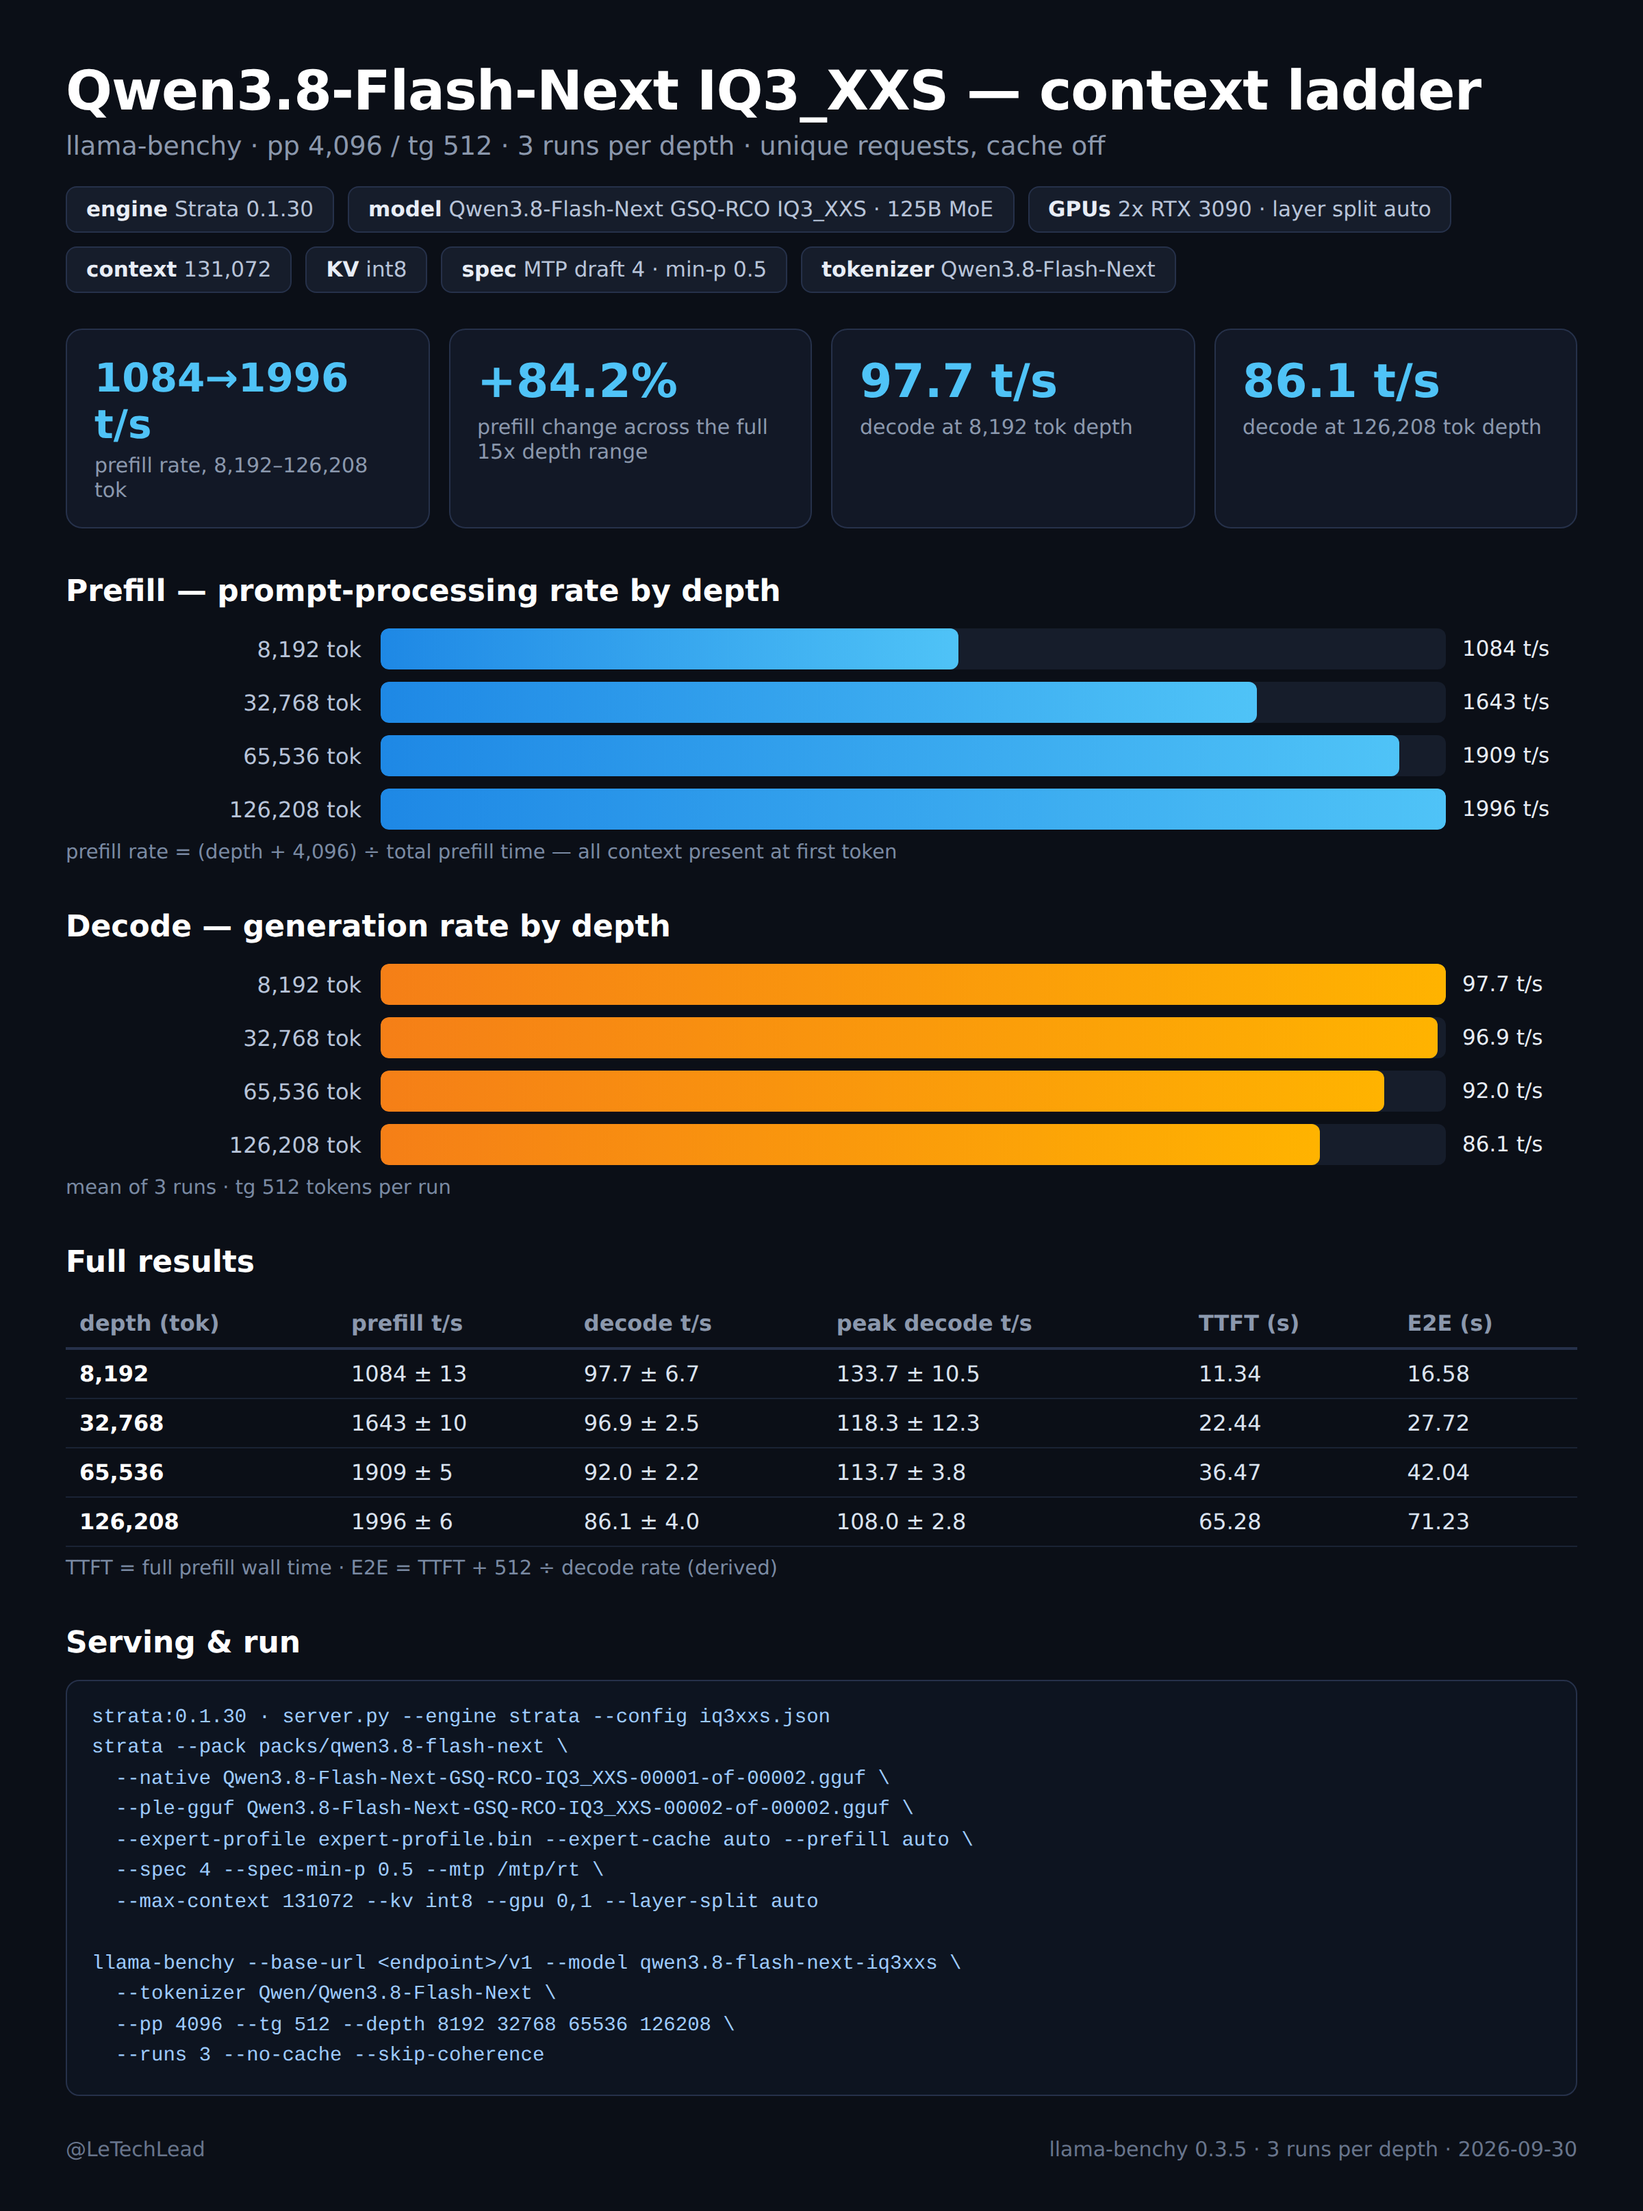
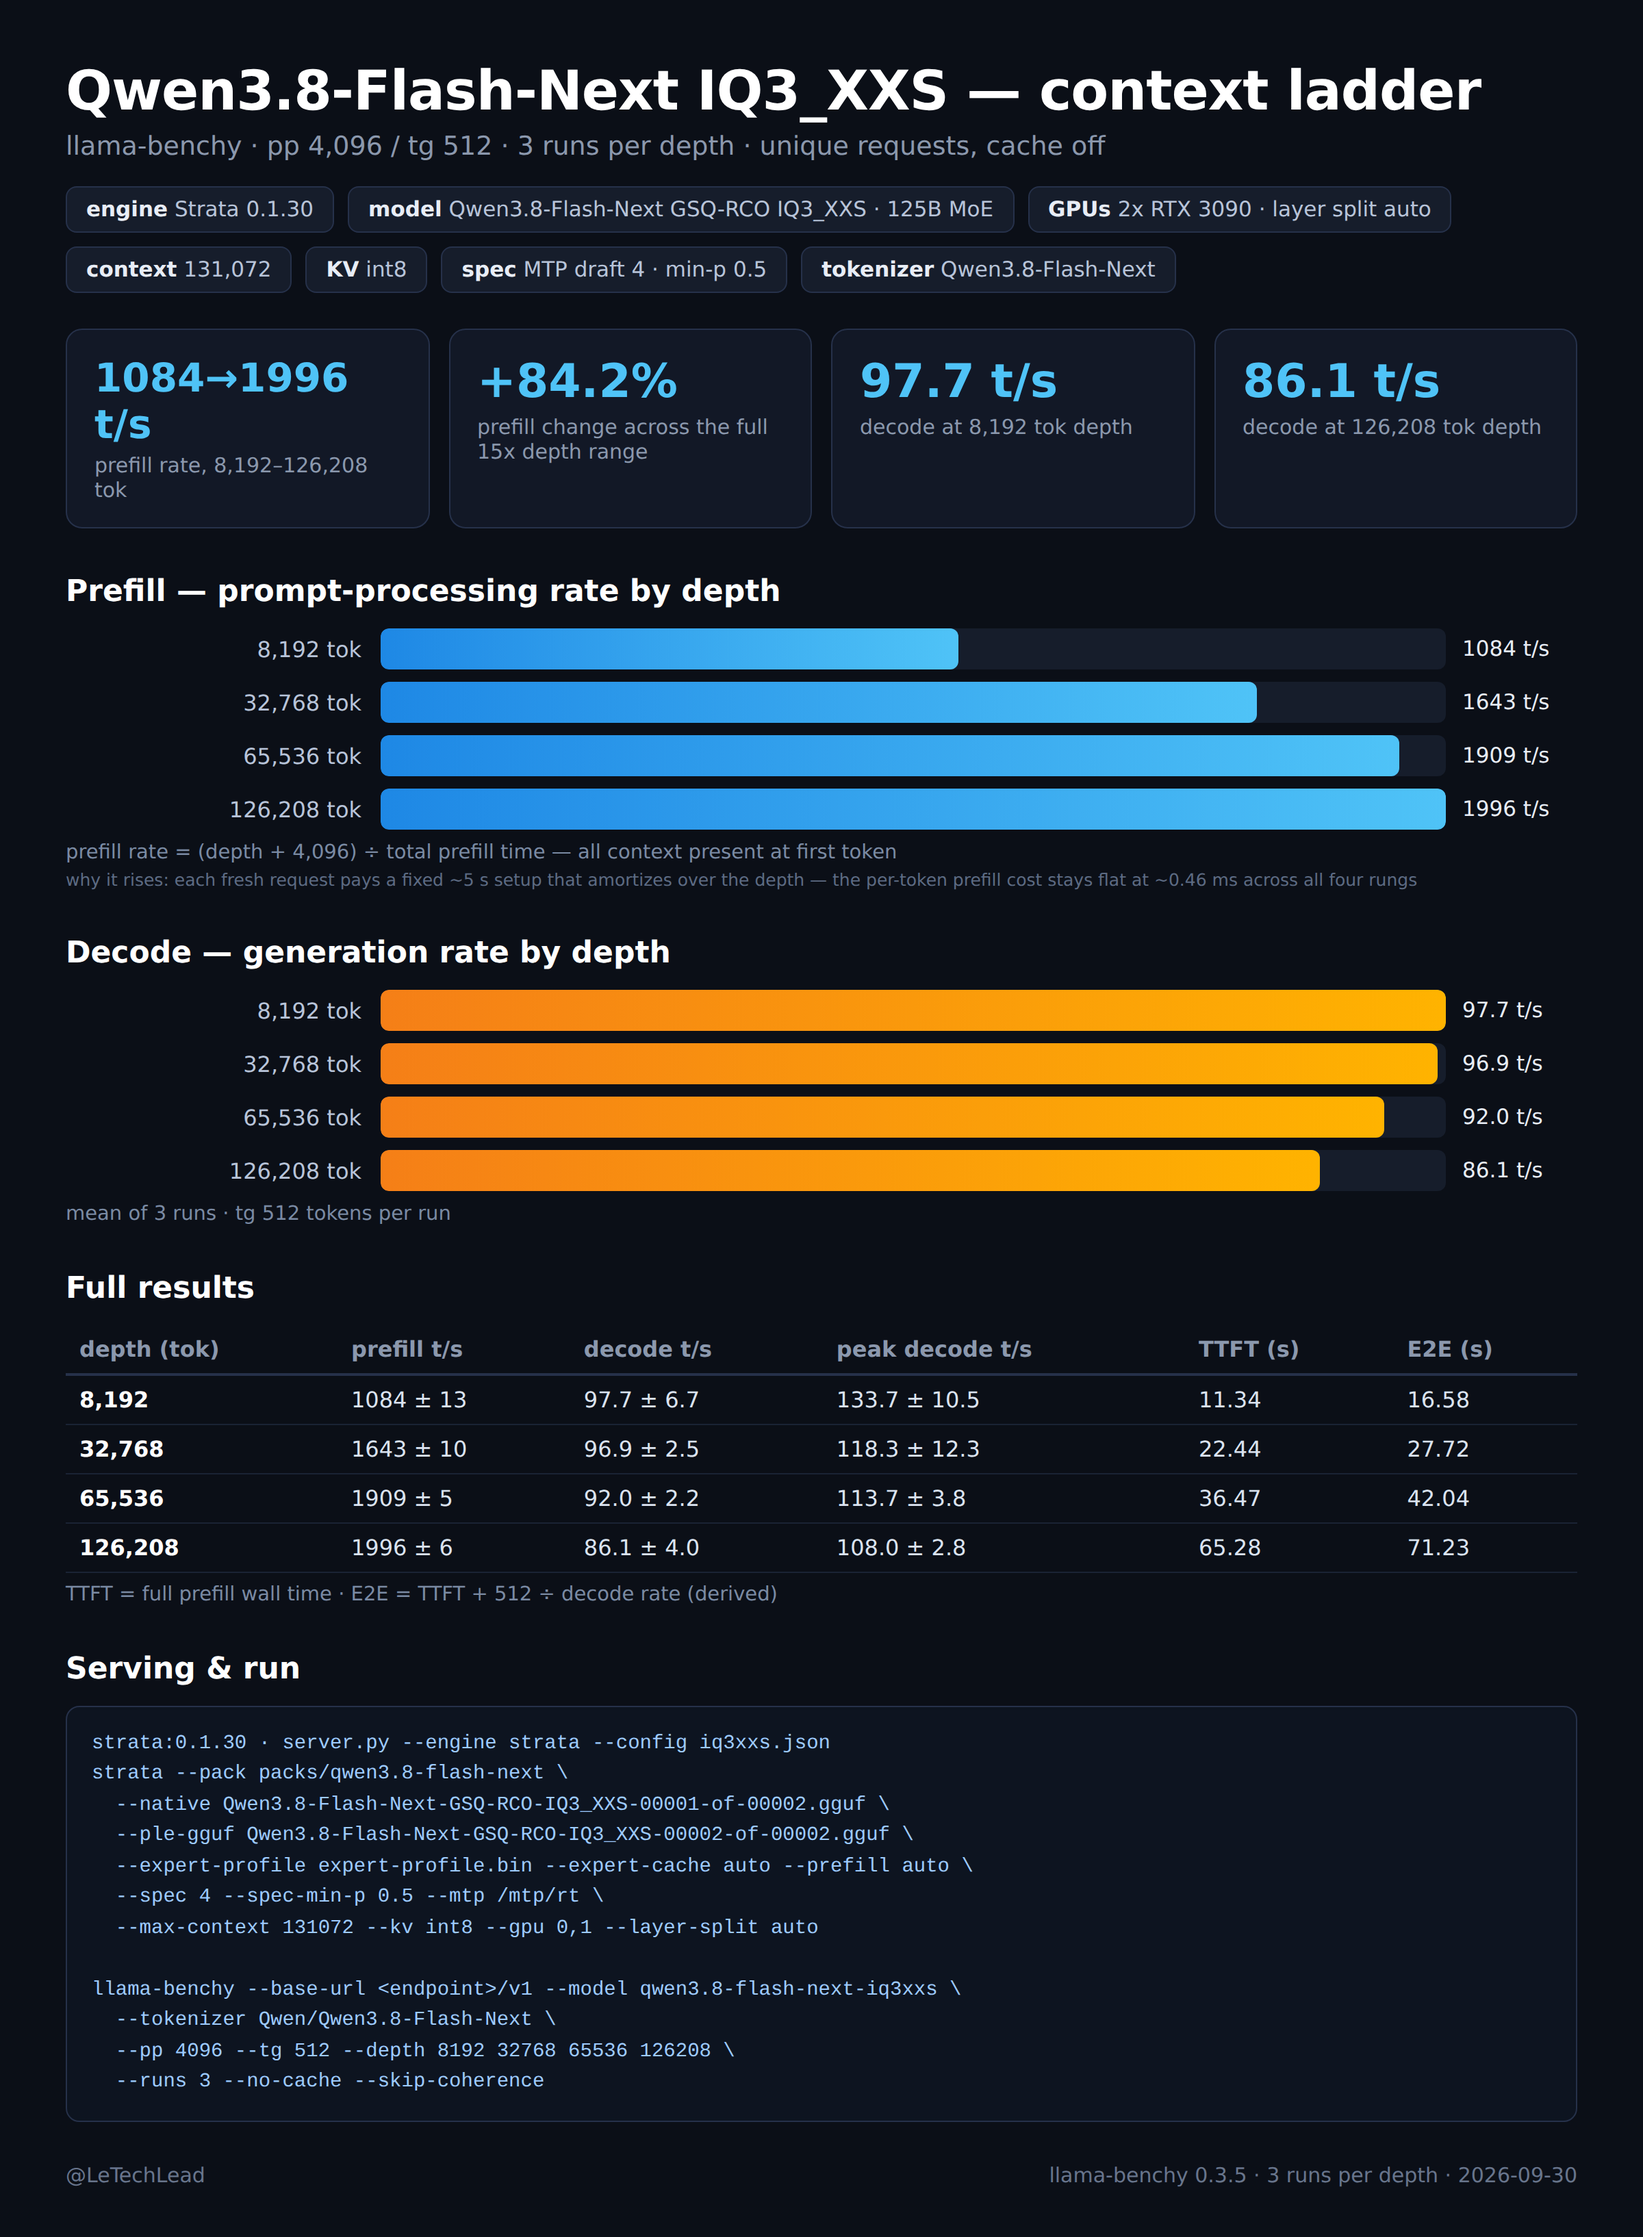
context-ladder card: footnote on why the prefill rate rises with depth
The card's pp column is an average over the whole request; each fresh context
carries a fixed ~5 s per-request setup on 0.1.30, so the rate climbs from
1084 to 1996 t/s across the ladder while the measured per-token prefill cost
stays flat at ~0.46 ms. Added as a small note under the prefill chart.

diff --git a/benchmark/context-ladder-card.html b/benchmark/context-ladder-card.html
@@ -25,6 +25,7 @@ td:first-child{color:#fff;font-weight:600}
 code{display:block;background:#0d1420;border:1px solid #26314a;border-radius:10px;padding:16px 18px;font:14.5px/1.55 Consolas,monospace;color:#9ecbff;white-space:pre;overflow-x:auto}
 .foot{margin-top:30px;font-size:15px;color:#68758c;display:flex;justify-content:space-between}
 .note{font-size:14.5px;color:#7a8aa3;margin-top:8px}
+.note.tiny{font-size:12.5px;color:#5d6b83;margin-top:4px}
 </style></head><body><div class="wrap">
 <h1>Qwen3.8-Flash-Next IQ3_XXS — context ladder</h1>
 <div class="sub">llama-benchy · pp 4,096 / tg 512 · 3 runs per depth · unique requests, cache off</div>
@@ -38,6 +39,7 @@ code{display:block;background:#0d1420;border:1px solid #26314a;border-radius:10p
 <h2>Prefill — prompt-processing rate by depth</h2>
 <div class="hrow"><div class="hlab">8,192 tok</div><div class="htrack"><div class="hbar" style="width:54.3%"></div></div><div class="hval">1084 t/s</div></div><div class="hrow"><div class="hlab">32,768 tok</div><div class="htrack"><div class="hbar" style="width:82.3%"></div></div><div class="hval">1643 t/s</div></div><div class="hrow"><div class="hlab">65,536 tok</div><div class="htrack"><div class="hbar" style="width:95.6%"></div></div><div class="hval">1909 t/s</div></div><div class="hrow"><div class="hlab">126,208 tok</div><div class="htrack"><div class="hbar" style="width:100.0%"></div></div><div class="hval">1996 t/s</div></div>
 <div class="note">prefill rate = (depth + 4,096) ÷ total prefill time — all context present at first token</div>
+<div class="note tiny">why it rises: each fresh request pays a fixed ~5 s setup that amortizes over the depth — the per-token prefill cost stays flat at ~0.46 ms across all four rungs</div>
 
 <h2>Decode — generation rate by depth</h2>
 <div class="hrow"><div class="hlab">8,192 tok</div><div class="htrack"><div class="hbar t" style="width:100.0%"></div></div><div class="hval">97.7 t/s</div></div><div class="hrow"><div class="hlab">32,768 tok</div><div class="htrack"><div class="hbar t" style="width:99.2%"></div></div><div class="hval">96.9 t/s</div></div><div class="hrow"><div class="hlab">65,536 tok</div><div class="htrack"><div class="hbar t" style="width:94.2%"></div></div><div class="hval">92.0 t/s</div></div><div class="hrow"><div class="hlab">126,208 tok</div><div class="htrack"><div class="hbar t" style="width:88.2%"></div></div><div class="hval">86.1 t/s</div></div>
